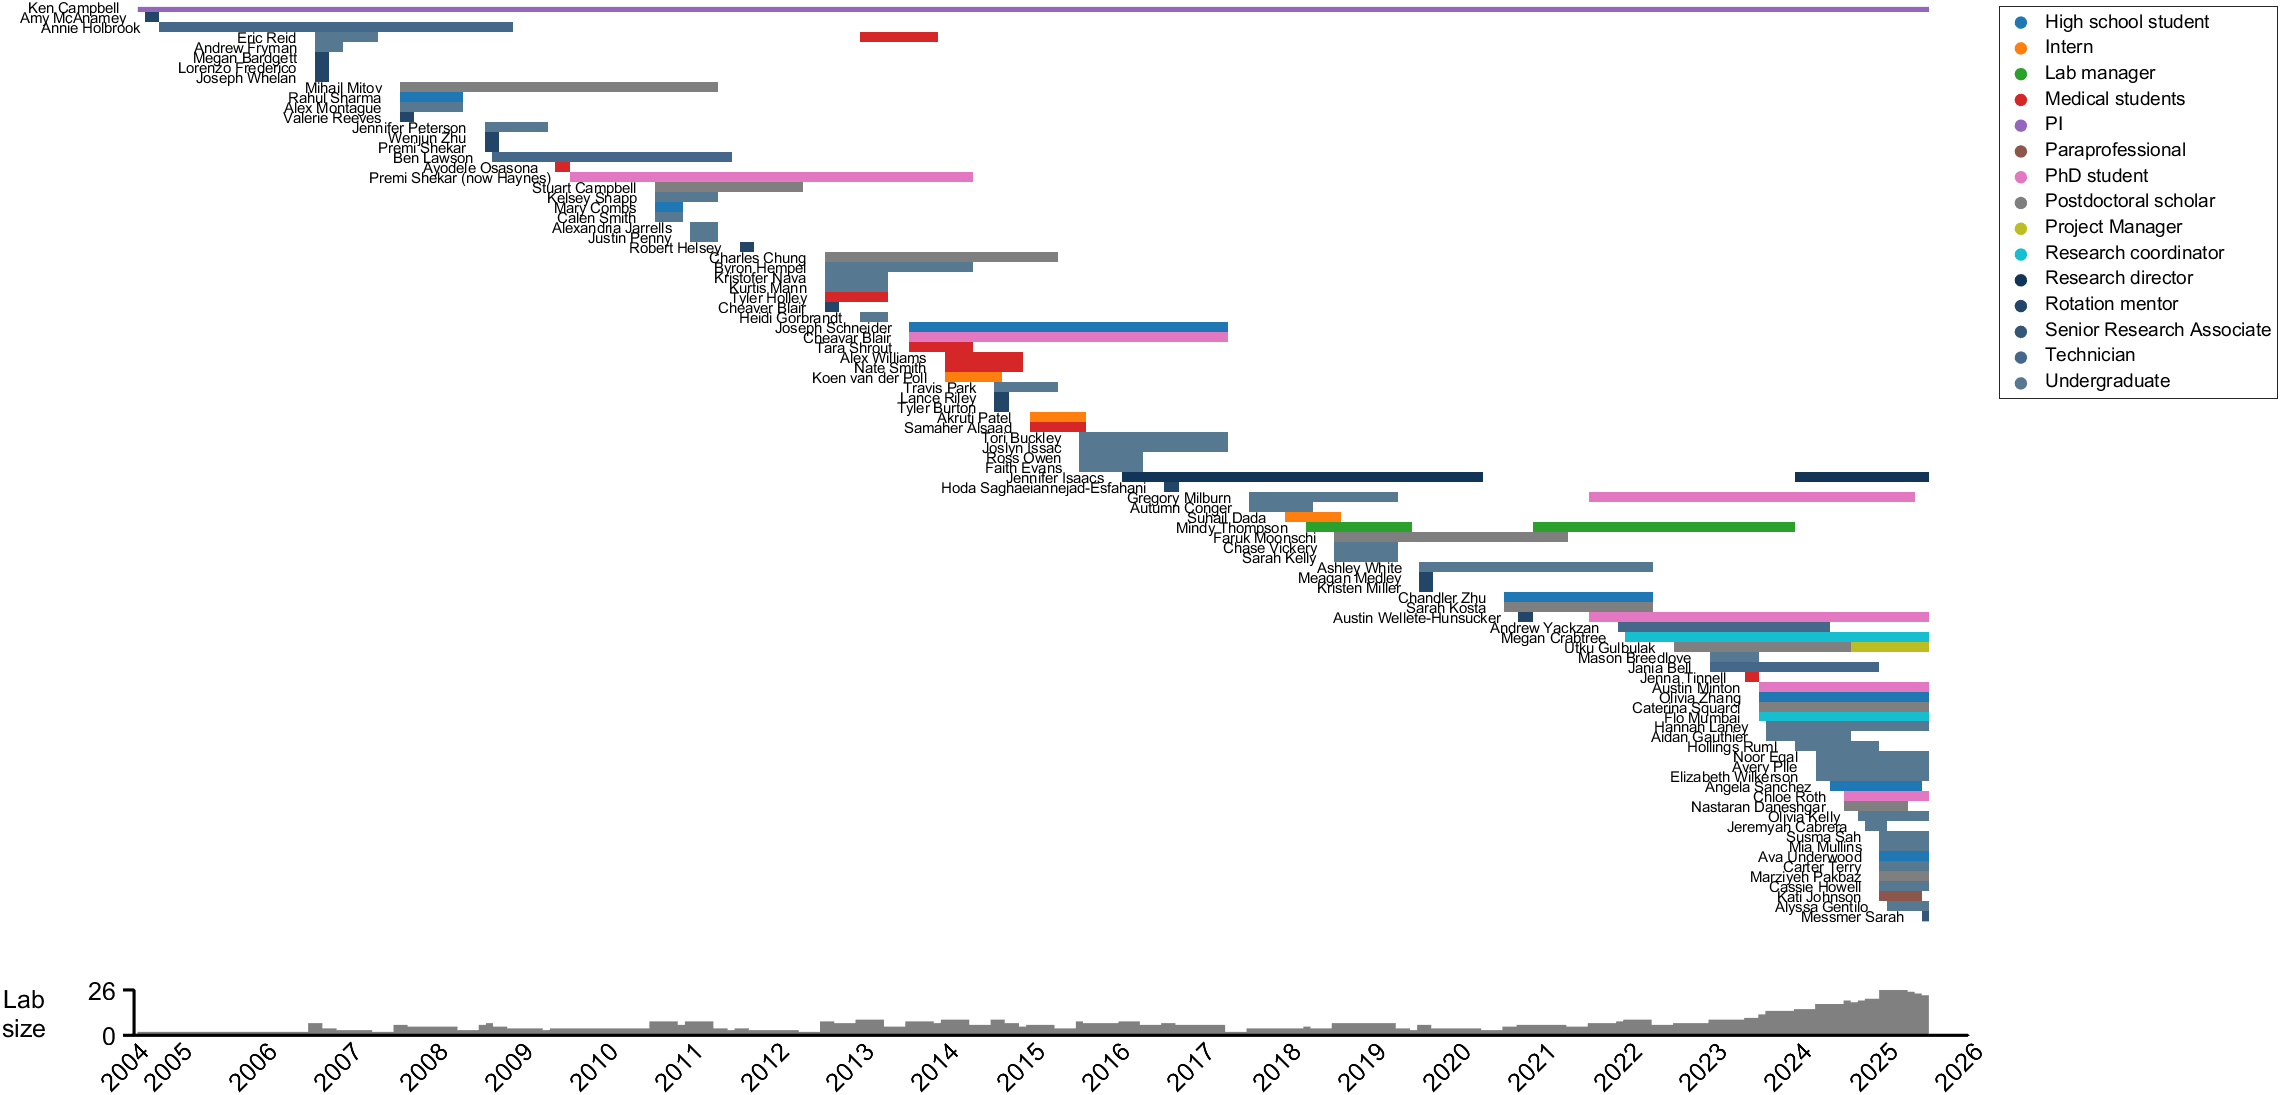
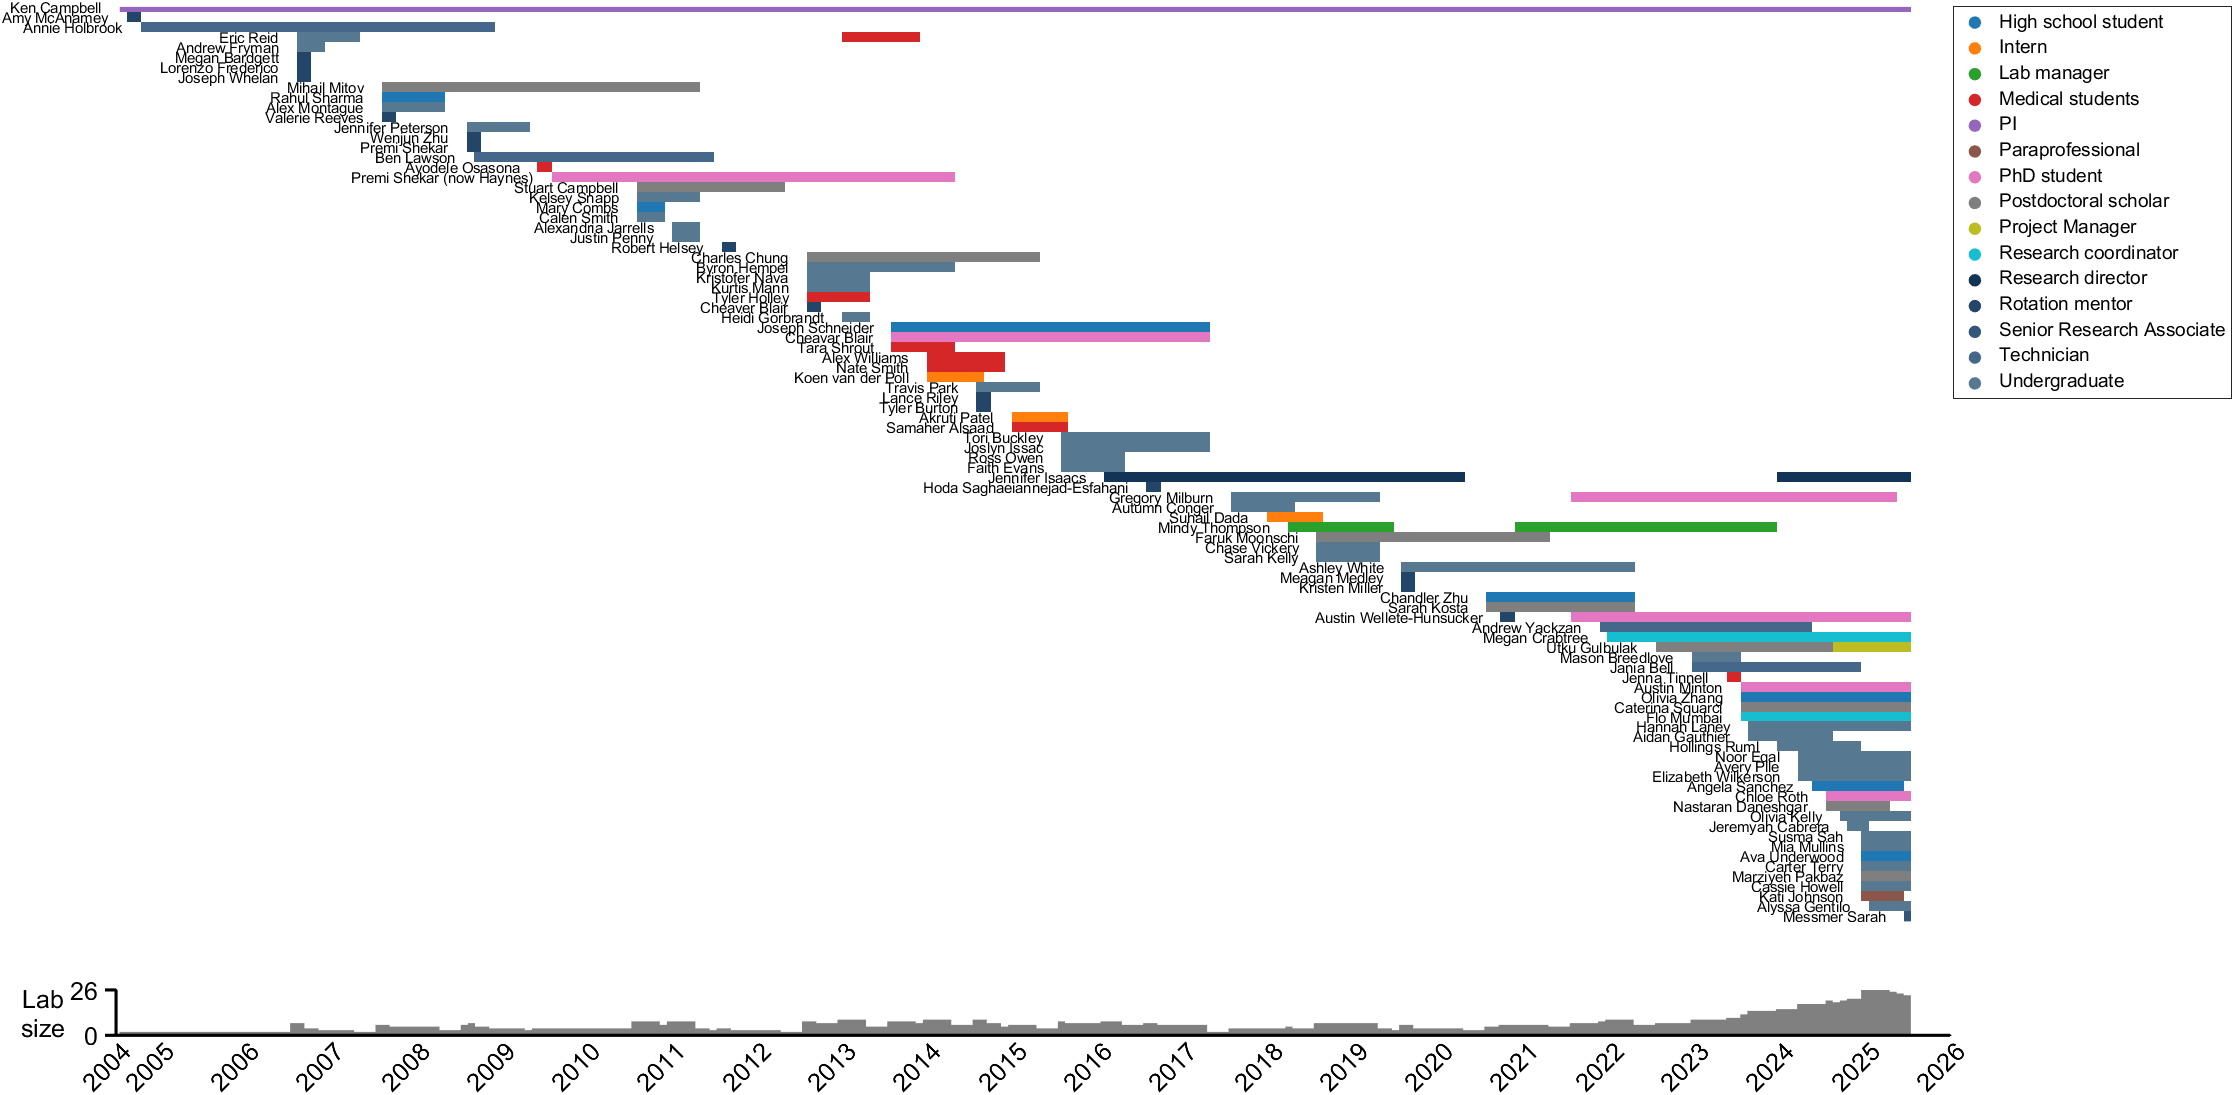
Jul 25 2nd update

diff --git a/MATLAB_code/create_lab_personnel_chart.m b/MATLAB_code/create_lab_personnel_chart.m
@@ -133,7 +133,7 @@ end
 
 legendflex(h, unique_roles, ...
     'anchor', {'ne', 'nw'}, ...
-    'buffer', [20, 0], ...
+    'buffer', [2, 0], ...
     'padding', [2,4,4], ...
     'xscale', 0.5)
 
@@ -152,7 +152,7 @@ improve_axes( ...
     'x_tick_label_vertical_offset', -0.02, ...
     'x_axis_label', '', ...
     'y_axis_offset', 0, ...
-    'y_label_offset', -0.06, ...
+    'y_label_offset', -0.04, ...
     'y_tick_length', 0.006, ...
     'y_tick_decimal_places', 0, ...
     'y_tick_label_horizontal_offset', -0.01, ...
